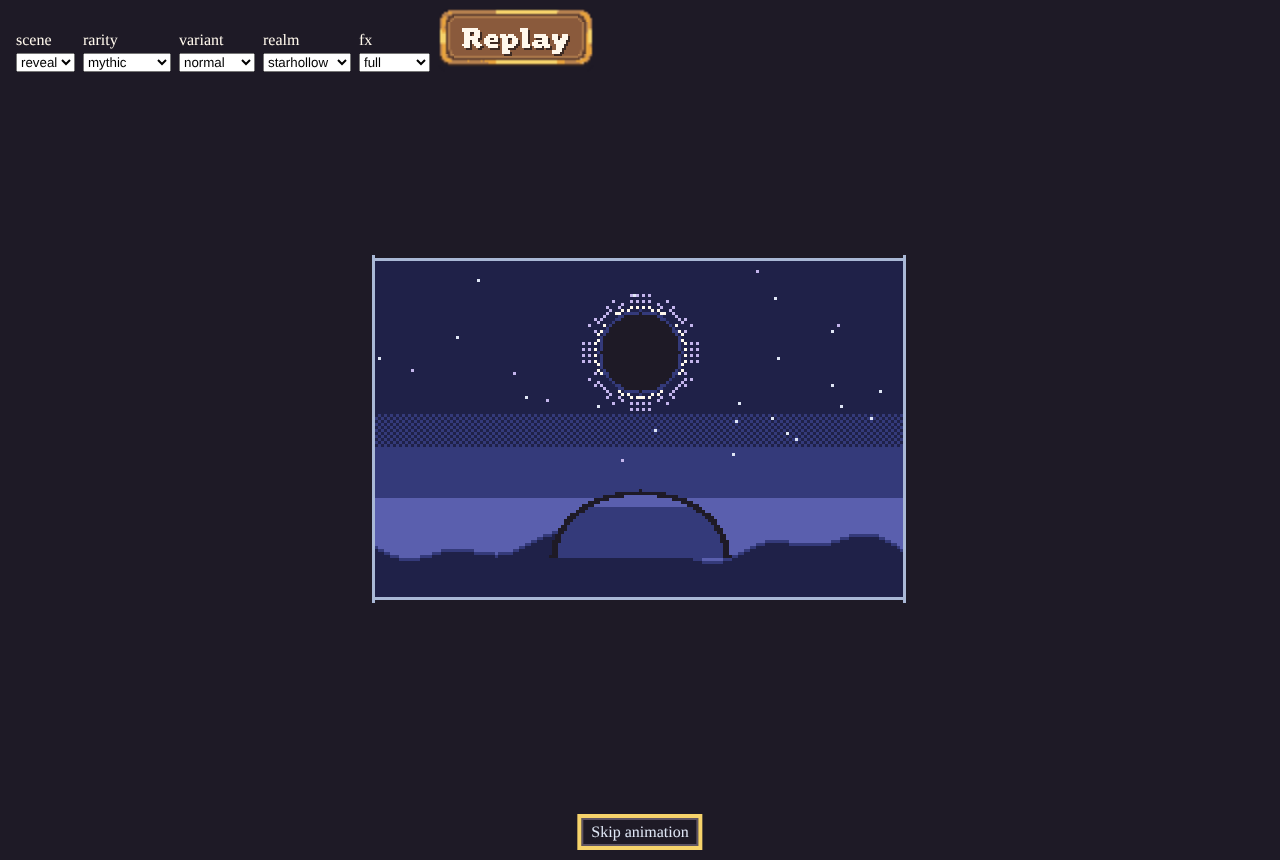
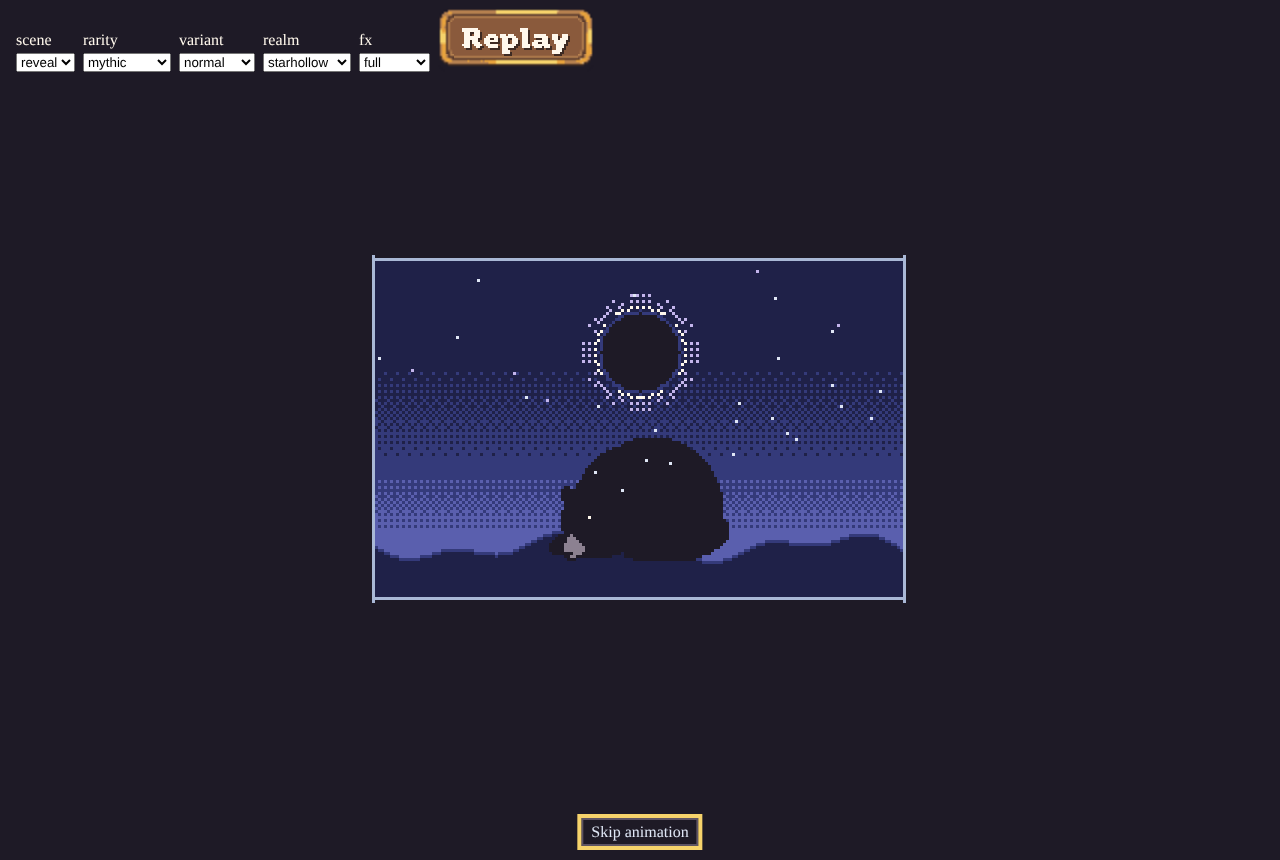
feat(client): T13 moment art, GIFs and handoff notes
Claude-Session: https://claude.ai/code/session_01TCarrM8TEJm5vCR1rLW52A

Changed region(s): [[0.2812, 0.4233, 0.7188, 0.6651]]

diff --git a/apps/client/src/opening/cutscenes.ts b/apps/client/src/opening/cutscenes.ts
@@ -32,7 +32,17 @@ export function spriteFrom(img: HTMLImageElement): Sprite | null {
       const hex = `#${[d[i], d[i + 1], d[i + 2]].map((v) => (v ?? 0).toString(16).padStart(2, '0')).join('')}`;
       pixels.push({ x, y, c: rgba(hex) });
     }
-  return { w: c.width, h: c.height, pixels };
+  return trimmed(pixels);
+}
+
+/** Crops a sprite to its opaque pixels, so it can stand on the ground by its real feet. */
+function trimmed(pixels: SpritePixel[]): Sprite | null {
+  if (pixels.length === 0) return null;
+  const x0 = Math.min(...pixels.map((p) => p.x));
+  const y0 = Math.min(...pixels.map((p) => p.y));
+  const w = Math.max(...pixels.map((p) => p.x)) - x0 + 1;
+  const h = Math.max(...pixels.map((p) => p.y)) - y0 + 1;
+  return { w, h, pixels: pixels.map((p) => ({ ...p, x: p.x - x0, y: p.y - y0 })) };
 }
 
 export function drawSprite(buf: PixelBuffer, s: Sprite, x: number, y: number): void {
@@ -131,11 +141,13 @@ function eclipse(
   still: boolean,
   art: RealmArt,
 ): void {
+  // Night above, a dithered glow of indigo and periwinkle down to the horizon.
   for (let y = r.y; y < r.y + r.h; y++) {
     const band = (y - r.y) / r.h;
-    const col = band < 0.45 ? C.night : band < 0.7 ? C.indigo : C.periwinkle;
+    const a = Math.min(1, Math.max(0, (band - 0.3) / 0.3));
+    const b = Math.min(1, Math.max(0, (band - 0.62) / 0.2));
     for (let x = r.x; x < r.x + r.w; x++)
-      buf.set(x, y, dithered(x, y, band < 0.45 ? 1 : band < 0.55 ? 0.5 : 1) ? col : C.night);
+      buf.set(x, y, dithered(x, y, b) ? C.periwinkle : dithered(x, y, a) ? C.indigo : C.night);
   }
   const rnd = seeded(3);
   for (let i = 0; i < 40; i++) {
@@ -176,7 +188,7 @@ function eclipse(
   }
   const ground = hills(buf, r, C.indigo, C.night, C.periwinkle);
   const bear = art.vignette;
-  if (bear) drawSprite(buf, bear, Math.round(moon.x - bear.w / 2), ground + 10 - bear.h);
+  if (bear) drawSprite(buf, bear, Math.round(moon.x - bear.w / 2), ground + 6 - bear.h);
   else sleepingLump(buf, moon.x, ground + 4);
   if (!still && Math.floor(t / 500) % 2 === 0)
     sparkle(buf, moon.x + 26, ground - 18, 1, C.lavender);
@@ -221,7 +233,7 @@ function bloom(
       buf.set(x, y, i > reach - 3 ? C.glow : C.lichen);
     }
   const stump = art.vignette;
-  const top = stump ? ground + 8 - stump.h : ground - 26;
+  const top = stump ? ground + 6 - stump.h : ground - 26;
   if (stump) drawSprite(buf, stump, Math.round(cx - stump.w / 2), top);
   else
     for (let y = top; y < ground + 6; y++)

diff --git a/apps/client/src/opening/RevealMoment.tsx b/apps/client/src/opening/RevealMoment.tsx
@@ -6,7 +6,16 @@ import { MomentScene } from './momentScene.js';
 import './moment.css';
 
 /** Generated moment art in `public/assets/moments/` (T13); missing art is drawn in code. */
-const MOMENT_ART: Partial<Record<Realm, { crest?: string; vignette?: string }>> = {};
+const MOMENT_ART: Partial<Record<Realm, { crest?: string; vignette?: string }>> = {
+  mossgrove: {
+    crest: '/assets/moments/crest-mossgrove.png',
+    vignette: '/assets/moments/vignette-stump.png',
+  },
+  starhollow: {
+    crest: '/assets/moments/crest-starhollow.png',
+    vignette: '/assets/moments/vignette-umbra.png',
+  },
+};
 
 const loadSprite = async (src: string | undefined) => {
   if (!src) return null;

diff --git a/docs/TASKS.md b/docs/TASKS.md
@@ -384,7 +384,7 @@ Docs: §5, §7, §16
   - Design decisions are in GDD §29 (T12 rows).
   - Verified: `pnpm typecheck`, `pnpm lint`, `pnpm test` (303 tests), client `build` (scene is its own chunk) and client `e2e` (12 tests, 2 new in `e2e/opening.spec.ts`: drag tear → flips → Reveal all → results → revealed; Starhollow click fallback → reload → Resume reveal → Skip; free pack, buying, `/debug` forcing → Epic Void featured with live shader).
 
-### T13 — Pack opening II: Starhollow, Legendary/Mythic reveals, variant stingers · L · budget ≤ 20 (VFX)
+### T13 — Pack opening II: Starhollow, Legendary/Mythic reveals, variant stingers · L · budget ≤ 20 (VFX) · done
 Docs: §5, §6, §7
 - **Starhollow theme**: the moon clasp turns, stardust swirls.
 - **Rarity moments**:
@@ -394,6 +394,18 @@ Docs: §5, §6, §7
 - **Variant stingers**: Foil glint, Prismatic rainbow wash, Void implosion, Glitch tear + "ERR_LUCK_OVERFLOW".
 - Reduced-effects versions of all of the above.
 - **Done when**: every rarity × variant can be forced and has been reviewed with screenshots.
+- **Handoff notes (2026-11-23)**:
+  - **PixelLab: 4 generations** (balance 764 → 760), all `create-image-pixflux`, master palette, first candidates approved (spec `tools/artgen/specs/t13.json`, manifest `t13/*`): `public/assets/moments/crest-{mossgrove,starhollow}.png` (32×32) and `vignette-{umbra,stump}.png` (64×64). pixflux costs 1 at 64×64 too. The moon clasp, rays, cutscene skies, shockwave and stingers are drawn in code. T20 can reuse the crests for the frame socket.
+  - **Screenshots** (`e2e/moments.spec.ts` rewrites the PNGs; frames are held with `?at=`, so they're stable): `docs/opening/moments/` — `legendary-{1-rays,2-descend,3-crest}`, `mythic-{1-takeover,2-freeze,3-starhollow-eclipse,3-mossgrove-bloom,4-shockwave,5-crest}`, `stinger-{foil,prismatic,void,glitch}`, `reduced-{legendary,mythic,glitch}`, `starhollow-tear{,-clasp,-burst}`. GIFs (made by hand from live screenshot frames, not by e2e): `legendary`, `mythic-{starhollow,mossgrove}`, `stinger-{foil,prismatic,void,glitch}`, `starhollow-tear`.
+  - **Timeline** (`opening/moment.ts`, pure + tested): `momentPlan(card, reduced)` → beats with durations (Legendary `dim rays descend crest`; Mythic `takeover freeze cutscene shockwave descend crest`; then the variant's stinger), `beatAt(plan, ms)`, `cardShown()` (the card is hidden until `descend`). Common–Epic normal cards have no moment, so their flip stays quick.
+  - **Drawing**: `momentScene.ts` (engine: two canvases at `CARD_SCALE`, back under the spotlight card and front over it, a `PixelBuffer` framebuffer blitted per frame; `frozenAt` holds a frame), `momentFx.ts` (dim, god-rays, shockwave, foil glint, rainbow wash, void implosion, glitch noise), `cutscenes.ts` (sprites from PNGs trimmed to their opaque box, crest burst, the two Mythic cutscenes, code fallbacks if art is missing), `pixels.ts` (framebuffer, Bayer dither, seeded RNG, midpoint ring). No alpha anywhere: "half dark" is a dither, so every pixel is a palette colour.
+  - **React**: `RevealMoment.tsx` (canvases, "Skip animation" — also a tap anywhere —, the ERR_LUCK_OVERFLOW banner, an aria-live label) mounted by `RevealStage` for the current card; the figure gets `data-arrival waiting|arriving|landed` (CSS `descend-spin`), `.reveal` gets `data-beat` (CSS camera shake, Glitch UI corruption, all off when `data-reduced`). `RevealStage` reports `onBusy`, and `OpeningScene` pauses "Reveal all" while a moment plays; Flip / Reveal all / See results are disabled meanwhile. Styles in `opening/moment.css`.
+  - **Starhollow** (`opening/starhollow.ts`, `STARHOLLOW_THEME` in `themes.ts`): `claspPixels()` redraws the satchel's moon medallion (centre measured on the sprite: 33.5, 42) turning ¾ round with the tear, full moon once open; `Stardust` orbits the pack and flies out on the burst. `PackTheme` gained `clasp` and `stardust`. `packMood()` now returns `mythic` too (harder shake, rose-gold leak).
+  - **Moment lab** `/debug/moments` (public, lazy, `pages/MomentLab.tsx` + `momentLabParams.ts`): `scene=reveal|tear`, `rarity`, `variant`, `realm`, `fx=settings|full|reduced`, `at` (ms, -1 = live), Replay. It fakes an opening locally; real forcing is still `/debug` "Dev forcing", which covers every rarity × variant.
+  - **For T14**: sound hooks are the beats — `RevealMoment` `onBeat` (dim/takeover = swell, rays, descend = whoosh, crest = burst, freeze = tick, shockwave = boom, and one per stinger); the Starhollow clasp turn is the tear progress (`onProgress`).
+  - **Not done / for later**: the other three realms' Mythic cutscenes and crests (they fall back to the Starhollow sky and a code crest) belong with those realms; the Mythic pack's staged opening is still T21. The T12 questions (vine density, results layout) were left alone.
+  - Design decisions are in GDD §29 (T13 rows).
+  - Verified: `pnpm typecheck`, `pnpm lint`, `pnpm test` (331 tests), client `build` and `e2e` (23 tests, 4 new: key frames full + reduced with a stillness check, the Starhollow tear, a live moment + skip, a forced Mythic Glitch in a real pack holding "Reveal all").
 
 ### T14 — Audio · M · budget ≤ 40
 Docs: §20

diff --git a/docs/GDD.md b/docs/GDD.md
@@ -554,3 +554,9 @@ The task breakdown is in `docs/TASKS.md`.
 | 2026-11-23 | T15: card inspect tilts the live card in 3D (≤ 8°, pointer-driven, flat at rest so it sits on the integer pixel grid; off under reduced motion). This follows §12; T11's "no 3D rotation" row stays true for every other card |
 | 2026-11-23 | T15: dusting from inspect always asks once; the confirm lists warnings when the selection holds a variant, mint number, First-Edition stamp, ★2/★3 copy or the card's last copies. Starter (account-bound) copies can't be selected. Fuse, wishlist and showcase actions wait for their milestones |
 | 2026-11-23 | T15: the binder's missing cards are silhouettes (the art as a straw-coloured mask) with the card number only; they can't be inspected. Pull history is a second tab under the Binder nav item (`/binder/history`), filterable by pack, best rarity and variant (server-side) |
+| 2026-11-23 | T13: reveal moments play over the spotlight right after the flip, on two pixel canvases at the card scale (dimming/rays behind the card, crest/stingers in front). Every effect is drawn in palette colours with ordered dithering instead of alpha. A tap anywhere or "Skip animation" skips a moment; "Reveal all" waits for it; "See results" unlocks after it |
+| 2026-11-23 | T13: Legendary = dim → golden god-rays from above the card → the card descends spinning (scaleX turns, slowing = slow-mo) → the realm crest flashes over the card and flies apart (≈ 3.2 s). Mythic = night takeover → time-freeze (a ticking clock ring) → realm mini-cutscene (Starhollow: an eclipse over Umbra asleep; Mossgrove: roots glow and a bloom opens over the Hollow Stump) → shockwave + camera shake → descend → crest (≈ 5.5 s). Other realms' Mythics fall back to the Starhollow sky until they ship |
+| 2026-11-23 | T13: variant stingers follow the rarity moment: Foil one glint sweep + sparkle; Prismatic a dithered rainbow wash across the screen; Void the screen darkens, stars spiral into the card, a ring collapses, then a pop; Glitch noise blocks and torn bands, an RGB edge split, the UI around the card jitters/slices and an "ERR_LUCK_OVERFLOW" banner (§6) |
+| 2026-11-23 | T13: under reduced effects each moment beat is one still frame held 450–900 ms; dim, takeover, freeze, descend and shockwave (pure motion/flash) are dropped, so no shake, flicker or moving parts |
+| 2026-11-23 | T13: Starhollow tear = the moon medallion on the satchel turns its crescent three quarters round as the seam tears and shows a full moon when it bursts; stardust orbits the pack (spinning faster while tearing) and flies up on the burst; a lilac mound under the pack. A pack holding a Mythic shakes harder and leaks rose-gold light (Legendary stays gold) |
+| 2026-11-23 | T13: generated moment art (pixflux, master palette): Mossgrove and Starhollow crests (32×32) and the cutscene subjects Umbra and the Hollow Stump (64×64); everything else, including the moon clasp, is drawn in code. `/debug/moments` previews any rarity × variant × realm moment or a realm's tear |

diff --git a/docs/pixellab-api-notes.md b/docs/pixellab-api-notes.md
@@ -60,7 +60,7 @@ Written in T04 (2026-11-23) from `https://api.pixellab.ai/v2/llms.txt`, selected
 ### `POST /create-image-pixflux` — cheap single image (T06 icons)
 - **Synchronous**: the response is `{ usage, image: Base64Image }`, no background job.
 - Body: `description`, `image_size` (area 32×32 to 400×400), `seed`, `no_background`, `color_image` (forced palette: an image containing the allowed colours; artgen sends a 1-px strip of the palette), `outline` (`single color black outline` · `single color outline` · `selective outline` · `lineless`), `shading` (`flat` … `highly detailed shading`), `detail` (`low` · `medium` · `highly detailed`), `view`, `init_image`.
-- **Cost (measured): 1 per image at 32×32.**
+- **Cost (measured): 1 per image at 32×32 and at 64×64** (T13: 4 calls, 2 of each).
 
 ### `POST /create-ui-asset` + `/ui-assets/{id}/split` + `/ui-assets/states` (T06 panels and button)
 - `create-ui-asset` body: `description`, `image_size` (192–688 per side), `pieces` (shape template in editor coords, longer side 0–512: `rounded_rect {id,kind,label,x,y,w,h,radius}`, `circle`, `polygon`), or `elements` (named scaffolds: button, panel, window…), `target_palette`, `style_image`, `seed`, `name`. Answers `{ background_job_id, ui_asset_id }`; after the job, `GET /ui-assets/{id}` has `image_url` (a public CDN PNG), `elements`, `states`, `split_preview`.
